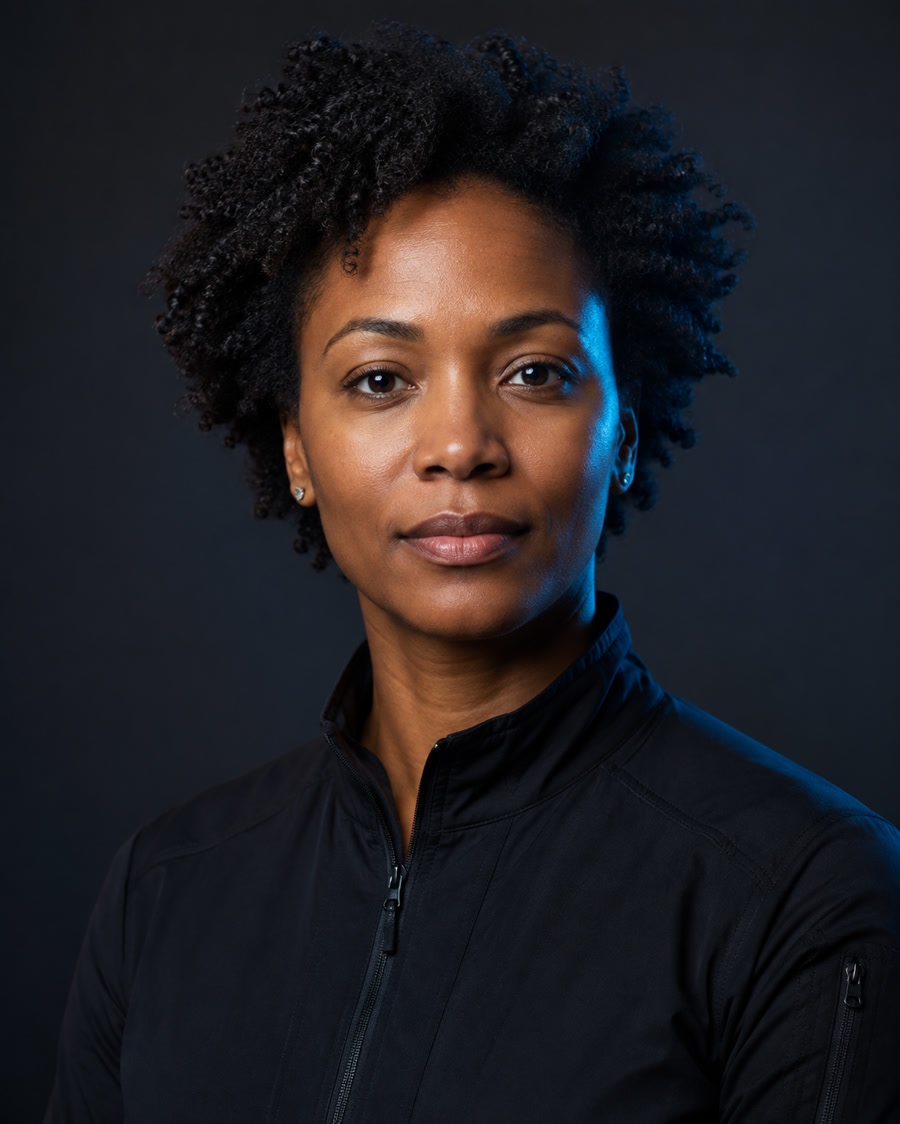
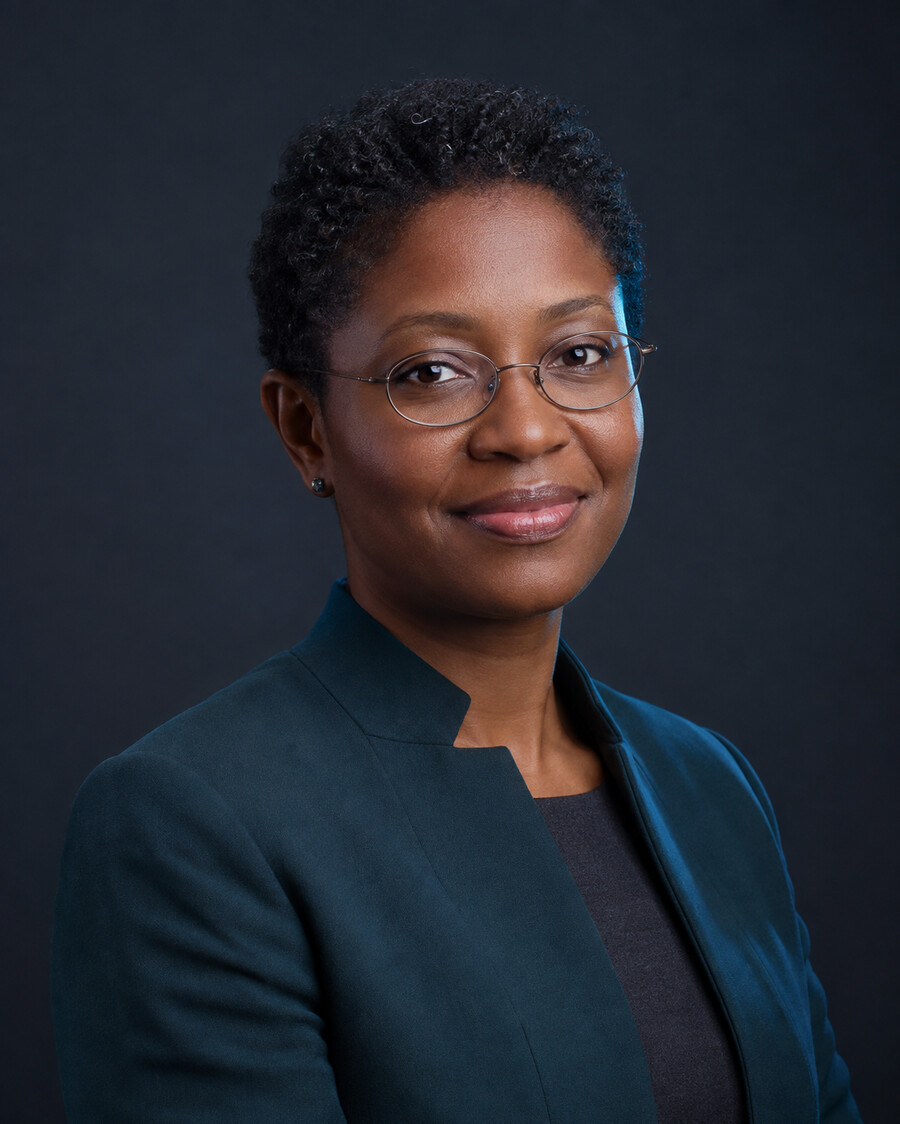
Refresh Amara portrait and reorder team

diff --git a/index.html b/index.html
@@ -220,8 +220,8 @@
         <p class="about-intro reveal" data-i18n="about.intro">Six complementary perspectives shape a workstation where provenance stays visible, automation stays bounded, and uncertainty is treated as a first-class state.</p>
         <div class="team-grid">
           <article class="team-card reveal">
-            <div class="team-photo"><img src="assets/team/amara-okafor.jpg" alt="Portrait of Amara Okafor" data-i18n-alt="alt.amara" width="900" height="1124" loading="lazy" decoding="async" /><span>01</span></div>
-            <div class="team-copy"><p class="team-role" data-i18n="about.amara.role">Systems Architecture</p><h3>Amara Okafor</h3><p data-i18n="about.amara.bio">A Lagos-born, London-based systems architect who models provider boundaries, fault isolation, and deterministic recovery.</p></div>
+            <div class="team-photo"><img src="assets/team/elias-navarro.jpg" alt="Portrait of Elias Navarro" data-i18n-alt="alt.elias" width="900" height="1124" loading="lazy" decoding="async" /><span>01</span></div>
+            <div class="team-copy"><p class="team-role" data-i18n="about.elias.role">Market Infrastructure</p><h3>Elias Navarro</h3><p data-i18n="about.elias.bio">A Madrid-and-Chicago market structure specialist focused on instrument identity, routing evidence, and execution reconciliation.</p></div>
           </article>
           <article class="team-card reveal" data-delay="1">
             <div class="team-photo"><img src="assets/team/chen-wei.jpg" alt="Portrait of Chen Wei" data-i18n-alt="alt.chen" width="900" height="1125" loading="lazy" decoding="async" /><span>02</span></div>
@@ -232,8 +232,8 @@
             <div class="team-copy"><p class="team-role" data-i18n="about.park.role">Runtime Reliability</p><h3>Park Min-seo</h3><p data-i18n="about.park.bio">A Seoul-and-Toronto reliability engineer focused on bounded event delivery, observability, and safe recovery under pressure.</p></div>
           </article>
           <article class="team-card reveal">
-            <div class="team-photo"><img src="assets/team/elias-navarro.jpg" alt="Portrait of Elias Navarro" data-i18n-alt="alt.elias" width="900" height="1124" loading="lazy" decoding="async" /><span>04</span></div>
-            <div class="team-copy"><p class="team-role" data-i18n="about.elias.role">Market Infrastructure</p><h3>Elias Navarro</h3><p data-i18n="about.elias.bio">A Madrid-and-Chicago market structure specialist focused on instrument identity, routing evidence, and execution reconciliation.</p></div>
+            <div class="team-photo"><img src="assets/team/amara-okafor.jpg?v=2" alt="Portrait of Amara Okafor" data-i18n-alt="alt.amara" width="900" height="1124" loading="lazy" decoding="async" /><span>04</span></div>
+            <div class="team-copy"><p class="team-role" data-i18n="about.amara.role">Systems Architecture</p><h3>Amara Okafor</h3><p data-i18n="about.amara.bio">A Lagos-born, London-based systems architect who models provider boundaries, fault isolation, and deterministic recovery.</p></div>
           </article>
           <article class="team-card reveal" data-delay="1">
             <div class="team-photo"><img src="assets/team/sora-kimura.jpg" alt="Portrait of Sora Kimura" data-i18n-alt="alt.sora" width="900" height="1124" loading="lazy" decoding="async" /><span>05</span></div>
